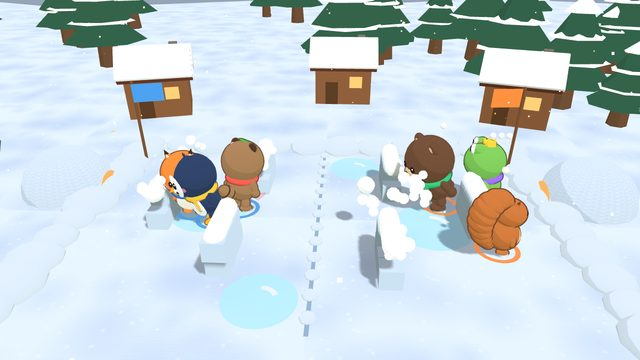
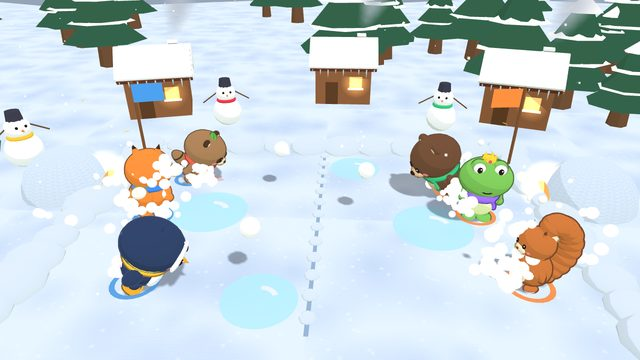
雪山の 雪合戦: 雪の かべを なくす
かくれる ところの ない まっこうしょうぶに。早く 決まりすぎないよう、体力 4・雪玉は 8回 れんだで 1こ・
はじめは 1こ・雪玉を 少し おそく(8m/秒)して 25 秒くらいに 合わせた。

Claude-Session: https://claude.ai/code/session_01Cisc6eBGskeR7WZHkdup4y

diff --git a/src/games/yuki/rules.js b/src/games/yuki/rules.js
@@ -1,12 +1,11 @@
 // 雪山の 雪合戦 のルール。THREE にも DOM にも触らない(あとでサーバーでも同じものを回す)。
 //
 // 雪山の ふもとの 村の 広場で、3人 対 3人の 雪合戦。まん中の 線から 先へは 行けない。
-// 雪玉を 3回 当てられた子は 雪だるまに なって 脱落。相手を みんな 雪だるまに したら 勝ち。
+// 雪玉を 4回 当てられた子は 雪だるまに なって 脱落。相手を みんな 雪だるまに したら 勝ち。
 // - チーム: くじで 左(L)・右(R)へ。3人に たりない チームには、森の なかま(すけっと)が入る(動きは このファイルの helperInput)。
 // - なげる: 向いている 向きへ まっすぐ。スティックを 少しだけ たおすと、その場で 向きだけ かえられる。
 // - 雪玉づくり: 雪玉は ammoMax こまで。「つくる」ボタンを makeTaps 回 れんだ すると 1こ できる(こおりの 上では できない)。
 //   れんだ している あいだは しゃがむので 動けない。
-// - 雪の かべ: かくれると 雪玉を ふせげる。wallHP 回 当たると くずれる。
 // - こおりの ゆか: つるつる すべる(止まりにくい・曲がりにくい)。こおりの 上では 雪玉を つくれない。
 // - 金の 雪玉: ときどき 落ちている。ひろうと つぎの 1こが 金(当たると 2つ ぶん)。
 // - timeLimit 秒で 決まらなければ、のこりの 体力の 合計が 多い チームの 勝ち(同じなら 当てた 数)。
@@ -33,32 +32,23 @@ export const RULES = {
   turnOnly: 0.35, // スティックが これより 小さいと 向きだけ かえる
   turnRate: 16,
   bodyR: 0.34,
-  hp: 3,
+  hp: 4,
   ammoMax: 3,
-  ammoStart: 2,
-  makeTaps: 6, // 雪玉 1こに いる れんだ の 回数
+  ammoStart: 1,
+  makeTaps: 8, // 雪玉 1こに いる れんだ の 回数
   makeHold: 0.28, // 1回 おすと この秒 しゃがむ(動けない)
-  throwCd: 0.5,
-  ballSpeed: 9,
+  throwCd: 0.6,
+  ballSpeed: 8,
   ballRange: 9,
   ballR: 0.16,
   stun: 0.6,
   knock: 3,
-  wallHP: 4,
-  wallW: 0.45, // かべの あつみ(x)
-  wallD: 1.3, // かべの はば(z)
   goldFirst: 8,
   goldEvery: [10, 15],
   goldLife: 9,
   pickR: 0.55,
 };
 
-// かべ(左右 おなじ 形): 左の チームの ぶん。右は x を うらがえす
-export const WALLS_L = [
-  { x: -1.5, z: -1.7 },
-  { x: -1.8, z: 1.5 },
-  { x: -3.5, z: 0 },
-];
 // こおりの ゆか(まるい)。左の チームの ぶん
 export const ICE_L = [
   { x: -2.6, z: -0.2, r: 0.9 },
@@ -81,7 +71,6 @@ export function createGame(players, seed) {
     teams: { L: [], R: [] }, // units の 番号
     units: [], // はじめの players.length こが プレイヤー(席の順)、のこりが すけっと
     balls: [], // { id, owner, x, z, dx, dz, left, gold }
-    walls: [], // { id, side, x, z, hp }
     ice: [],
     golds: [], // { id, x, z, until }
     nextGold: RULES.goldFirst,
@@ -117,7 +106,6 @@ export function createGame(players, seed) {
       u.goalX = u.x; u.goalZ = u.z;
     });
   }
-  for (const w of WALLS_L) for (const sx of [-1, 1]) s.walls.push({ id: s.nextId++, side: sx < 0 ? 'L' : 'R', x: sx < 0 ? w.x : -w.x, z: sx < 0 ? w.z : -w.z, hp: RULES.wallHP });
   for (const c of ICE_L) for (const sx of [-1, 1]) s.ice.push({ x: sx < 0 ? c.x : -c.x, z: sx < 0 ? c.z : -c.z, r: c.r });
   return s;
 }
@@ -128,16 +116,6 @@ export const onIce = (s, x, z) => s.ice.some((c) => Math.hypot(x - c.x, z - c.z)
 export const teamHp = (s, side) => s.teams[side].reduce((a, i) => a + Math.max(0, s.units[i].hp), 0);
 export const teamAlive = (s, side) => s.teams[side].filter((i) => s.units[i].alive);
 export const facingVec = (u) => ({ x: Math.sin(u.face), z: Math.cos(u.face) });
-const inWall = (w, x, z, pad) => Math.abs(x - w.x) < RULES.wallW / 2 + pad && Math.abs(z - w.z) < RULES.wallD / 2 + pad;
-// (x, z) から (x2, z2) へ まっすぐ 投げたら かべに 当たるか
-export function wallBetween(s, x, z, x2, z2) {
-  const n = Math.ceil(Math.hypot(x2 - x, z2 - z) / 0.2);
-  for (let k = 1; k < n; k++) {
-    const px = x + ((x2 - x) * k) / n, pz = z + ((z2 - z) * k) / n;
-    if (s.walls.some((w) => w.hp > 0 && inWall(w, px, pz, RULES.ballR))) return true;
-  }
-  return false;
-}
 // 陣地の 中に おさめる
 function clampSide(u) {
   const sx = u.side === 'L' ? -1 : 1;
@@ -171,7 +149,7 @@ function helperInput(s, i) {
     u.goalX = sx * randRange(s, 1.0, 4.4);
     u.goalZ = randRange(s, -3, 3);
   }
-  const want = Math.atan2(near.x - u.x, near.z - u.z) + randRange(s, -0.12, 0.12);
+  const want = Math.atan2(near.x - u.x, near.z - u.z) + randRange(s, -0.18, 0.18);
   // 雪玉が なければ しゃがんで れんだ で つくる(1秒に 6回くらい)
   if (u.ammo <= 0 && !onIce(s, u.x, u.z)) {
     let make = false;
@@ -181,7 +159,7 @@ function helperInput(s, i) {
   if (u.ammo <= 0) return { x: -sx, z: 0, throw: false };
   const dx = u.goalX - u.x, dz = u.goalZ - u.z, d = Math.hypot(dx, dz);
   // ねらう ときは その場で 向きを かえる
-  const aim = nd < 8 && u.cd <= 0 && !wallBetween(s, u.x, u.z, near.x, near.z);
+  const aim = nd < 8 && u.cd <= 0;
   if (aim) {
     const diff = Math.abs(((want - u.face + Math.PI * 3) % (Math.PI * 2)) - Math.PI);
     return { x: Math.sin(want) * 0.2, z: Math.cos(want) * 0.2, throw: diff < 0.12 && nextRandom(s) < 0.05 };
@@ -256,12 +234,6 @@ export function step(s, inputs) {
     u.x += u.vx * dt;
     u.z += u.vz * dt;
     clampSide(u);
-    // かべに めりこまない
-    for (const w of s.walls) {
-      if (w.hp <= 0 || !inWall(w, u.x, u.z, RULES.bodyR)) continue;
-      const ox = RULES.wallW / 2 + RULES.bodyR - Math.abs(u.x - w.x), oz = RULES.wallD / 2 + RULES.bodyR - Math.abs(u.z - w.z);
-      if (ox < oz) { u.x += Math.sign(u.x - w.x || 1) * ox; u.vx = 0; } else { u.z += Math.sign(u.z - w.z || 1) * oz; u.vz = 0; }
-    }
     // 雪玉づくり: 「つくる」を れんだ(雪の 上で)
     if (inp.make && !ice && u.ammo < RULES.ammoMax && u.stun <= 0) {
       u.makeT = RULES.makeHold;
@@ -305,14 +277,6 @@ export function step(s, inputs) {
       b.x += (b.dx * dt) / n;
       b.z += (b.dz * dt) / n;
       b.left -= (RULES.ballSpeed * dt) / n;
-      const w = s.walls.find((w) => w.hp > 0 && inWall(w, b.x, b.z, RULES.ballR));
-      if (w) {
-        w.hp--;
-        ev.push({ type: 'wallHit', id: w.id, ball: b.id, x: b.x, z: b.z, hp: w.hp });
-        if (w.hp <= 0) ev.push({ type: 'wallBreak', id: w.id });
-        gone = true;
-        break;
-      }
       const owner = s.units[b.owner];
       for (const i of alive) {
         const u = s.units[i];

diff --git a/src/games/yuki/game.js b/src/games/yuki/game.js
@@ -13,7 +13,7 @@ import { createModel, preload, toonMaterial } from '../../runtime/models.js';
 import { seedFrom } from '../../rng.js';
 import { RULES, STEP, createGame, onIce, ranking, step, timeLeft } from './rules.js';
 import { PERSONALITIES, cpuInput, createCpu } from './cpu.js';
-import { TEAM_COLORS, buildIce, buildStage, buildWall } from './stage.js';
+import { TEAM_COLORS, buildIce, buildStage } from './stage.js';
 import { createAtmosphere } from '../daruma/atmosphere.js';
 
 const $ = (id) => document.getElementById(id);
@@ -78,8 +78,6 @@ export async function createYuki({ renderer, settings, getAudio, onExit }) {
   const sfx = {
     throw() { noise({ len: 0.18, gain: 0.08, freq: [2200, 700], q: 1.5 }); },
     hit() { noise({ len: 0.22, gain: 0.2, freq: [1600, 300], type: 'lowpass', attack: 0.003 }); voice({ pts: [[0, 660], [0.12, 330]], len: 0.14, gain: 0.05 }); },
-    wall() { noise({ len: 0.15, gain: 0.12, freq: [1000, 300], type: 'lowpass', attack: 0.003 }); },
-    crumble() { noise({ len: 0.5, gain: 0.2, freq: [800, 120], type: 'lowpass' }); },
     scoop() { noise({ len: 0.08, gain: 0.06, freq: [1800, 600], q: 1.2 }); },
     make() { voice({ type: 'triangle', pts: [[0, 520], [0.06, 700]], len: 0.08, gain: 0.04 }); },
     gold() { [0, 0.07, 0.14].forEach((at, i) => voice({ pts: [[0, 988 + i * 260]], len: 0.1, gain: 0.05, at })); },
@@ -93,10 +91,9 @@ export async function createYuki({ renderer, settings, getAudio, onExit }) {
 
   await preload([...CHARACTERS.map((c) => c.key), 'risu', 'harinezumi', 'komadori']);
 
-  // ── 雪の かべ・こおり(state から 作る) ───────────────────
+  // ── こおり(state から 作る) ───────────────────
   const fieldGroup = new THREE.Group();
   scene.add(fieldGroup);
-  let walls = new Map();
 
   // ── 雪玉・金の 雪玉 ──────────────────────────────────
   const ballGeo = new THREE.SphereGeometry(RULES.ballR * 1.2, 10, 8);
@@ -242,7 +239,7 @@ export async function createYuki({ renderer, settings, getAudio, onExit }) {
     pos.needsUpdate = true;
   }
 
-  // 雪だるま(雪玉を 3回 当てられた子)。首に チームの 色の マフラー
+  // 雪だるま(雪玉を 4回 当てられた子)。首に チームの 色の マフラー
   function snowman(color) {
     const g = new THREE.Group();
     const white = toonMaterial(0xffffff);
@@ -288,11 +285,6 @@ export async function createYuki({ renderer, settings, getAudio, onExit }) {
     golds.clear();
     const state = createGame(players, seed);
     fieldGroup.clear();
-    walls = new Map(state.walls.map((w) => {
-      const v = buildWall(w);
-      fieldGroup.add(v.group);
-      return [w.id, { ...v, w, fall: 0 }];
-    }));
     for (const c of state.ice) fieldGroup.add(buildIce(c));
     const units = await Promise.all(state.units.map(async (su) => {
       const helper = su.slot < 0;
@@ -584,32 +576,6 @@ export async function createYuki({ renderer, settings, getAudio, onExit }) {
           }
           break;
         }
-        case 'wallHit': {
-          burst(e.x, BALL_Y, e.z, 5);
-          sfx.wall();
-          const v = walls.get(e.id);
-          if (v) v.shake = 0.25;
-          // ブロックを ひとつずつ へらす
-          if (v && e.hp > 0) { const b = v.blocks.filter((x) => x.visible).pop(); if (b) { b.visible = false; burst(v.w.x + b.position.x, b.position.y, v.w.z + b.position.z, 6); } }
-          break;
-        }
-        case 'wallBreak': {
-          const v = walls.get(e.id);
-          if (v) {
-            v.fall = 0.001;
-            burst(v.w.x, 0.5, v.w.z, 18, 0xffffff, 3);
-            // 雪けむり
-            for (let k = 0; k < 6; k++) {
-              const m = new THREE.Sprite(new THREE.SpriteMaterial({ map: smokeTex, color: 0xffffff, transparent: true, opacity: 0, depthWrite: false }));
-              m.position.set(v.w.x + (Math.random() - 0.5) * 0.6, 0.3, v.w.z + (Math.random() - 0.5) * 1.2);
-              m.scale.setScalar(0.4);
-              scene.add(m);
-              fx.push({ obj: m, t: 0, life: 1.2, vel: new THREE.Vector3((Math.random() - 0.5) * 1.2, 0.8, (Math.random() - 0.5) * 1.2), kind: 'smoke' });
-            }
-          }
-          sfx.crumble();
-          break;
-        }
         case 'miss':
           burst(e.x, 0.1, e.z, 4);
           break;
@@ -742,16 +708,6 @@ export async function createYuki({ renderer, settings, getAudio, onExit }) {
         u.pips.position.y = 1.75 * u.size;
       }
       if (u.arrow) u.arrow.material.opacity = su.ammo > 0 ? 0.9 : 0.3;
-    }
-    // かべ: ゆれる・くずれる
-    for (const v of walls.values()) {
-      if (v.shake > 0) { v.shake -= dt; v.group.position.x = v.w.x + Math.sin(time * 60) * 0.04; } else v.group.position.x = v.w.x;
-      if (v.fall > 0) {
-        v.fall += dt;
-        const k = Math.min(1, v.fall / 0.6);
-        v.group.scale.set(1 + k * 0.4, Math.max(0.01, 1 - k), 1 + k * 0.4);
-        if (k >= 1) v.group.visible = false;
-      }
     }
     syncBalls(s);
     syncGolds(s);

diff --git a/src/games/yuki/cpu.js b/src/games/yuki/cpu.js
@@ -4,18 +4,17 @@
 // ねらうときは スティックを 少しだけ たおして その場で 向きを かえてから なげる。
 // - ねらい: いちばん 近い(体力の 少ない)相手。動きを 少し 先読み(lead)。ずれ(aimErr)は 性格しだい。
 // - よける: 自分へ 来る 雪玉に 気づいたら(dodge)、横へ にげる。
-// - かべ: ときどき 相手との あいだに かべが 来る ところへ 行って かくれる(cover)。
 // - 雪玉が なくなったら、こおりで ない ところで「つくる」を れんだ(tap 回/秒)。金の 雪玉は ひろいに いく(greed)。
 //
 // 乱数は CPU ごとに持つ(シードはゲームのシードと席から作る)。
 
 import { nextRandom, seedFrom } from '../../rng.js';
-import { RULES, onIce, teamAlive, wallBetween } from './rules.js';
+import { RULES, onIce, teamAlive } from './rules.js';
 
 export const PERSONALITIES = {
-  cautious: { label: 'しんちょう', aimErr: 0.15, aimTol: 0.1, lead: 0.6, dodge: 0.7, cover: 0.6, greed: 0.3, think: 0.24, range: 7, tap: 6.5 },
-  normal: { label: 'ふつう', aimErr: 0.16, aimTol: 0.12, lead: 0.5, dodge: 0.62, cover: 0.4, greed: 0.5, think: 0.22, range: 7.5, tap: 6.8 },
-  bold: { label: 'つよき', aimErr: 0.18, aimTol: 0.15, lead: 0.4, dodge: 0.52, cover: 0.2, greed: 0.75, think: 0.2, range: 8.5, tap: 7 },
+  cautious: { label: 'しんちょう', aimErr: 0.17, aimTol: 0.1, lead: 0.6, dodge: 0.82, greed: 0.3, think: 0.24, range: 7.4, tap: 6.5 },
+  normal: { label: 'ふつう', aimErr: 0.18, aimTol: 0.12, lead: 0.5, dodge: 0.76, greed: 0.5, think: 0.22, range: 7.5, tap: 6.8 },
+  bold: { label: 'つよき', aimErr: 0.2, aimTol: 0.15, lead: 0.4, dodge: 0.68, greed: 0.75, think: 0.2, range: 7.6, tap: 7 },
 };
 
 export function createCpu(personality, seed, slot) {
@@ -62,16 +61,7 @@ export function cpuInput(cpu, s, slot) {
     cpu.err = (nextRandom(cpu) * 2 - 1) * p.aimErr;
     const gold = s.golds.find((g) => Math.sign(g.x) === sx);
     if (gold && nextRandom(cpu) < p.greed) { cpu.gx = gold.x; cpu.gz = gold.z; }
-    else if (nextRandom(cpu) < p.cover) {
-      // 相手との あいだに かべが 来る ところ
-      const mine = s.walls.filter((w) => w.side === me.side && w.hp > 0);
-      const w = mine[Math.floor(nextRandom(cpu) * mine.length)];
-      if (w) {
-        const d = Math.hypot(target.x - w.x, target.z - w.z) || 1;
-        cpu.gx = w.x - ((target.x - w.x) / d) * 0.75;
-        cpu.gz = w.z - ((target.z - w.z) / d) * 0.75;
-      }
-    } else {
+    else {
       cpu.gx = sx * (1.2 + nextRandom(cpu) * 3.0);
       cpu.gz = (nextRandom(cpu) * 2 - 1) * 3;
     }
@@ -88,8 +78,7 @@ export function cpuInput(cpu, s, slot) {
     cpu.gx = me.x + sx * 0.8; // こおりから 出る
   }
   // ── ねらって なげる ──
-  const open = !wallBetween(s, me.x, me.z, target.x, target.z);
-  if (me.cd <= 0 && dist < p.range && open) {
+  if (me.cd <= 0 && dist < p.range) {
     return { ...turn, throw: Math.abs(angDiff(want, me.face)) < p.aimTol };
   }
   const dx = cpu.gx - me.x, dz = cpu.gz - me.z, d = Math.hypot(dx, dz);

diff --git a/src/games/yuki/stage.js b/src/games/yuki/stage.js
@@ -2,7 +2,7 @@
 //
 // 雪に おおわれた 村の 広場。まん中に 線(小さな 雪の 山と 旗の ひも)。左右の 陣地の おくに、チームの 旗と かまくら。
 // まわりには 雪を かぶった 小屋と もみの木、うしろに 大きな 雪山。雪が ちらちら ふる(画面がわ)。
-// 雪の かべ・こおりの ゆかは state から 作って、画面がわで くずす。
+// こおりの ゆかは state から 作る。
 //
 // 座標: 広場の まん中が 原点。左の チームが -x、右が +x。カメラは +z(手前)の 上から。
 
@@ -246,28 +246,6 @@ export function buildStage(scene) {
     glows.push(sp);
   }
   return { group: g, flags, chimneys, glows };
-}
-
-// 雪の かべ(state.walls から)。かたまりを 積んだ 形
-export function buildWall(w) {
-  const grp = new THREE.Group();
-  const blocks = [];
-  const mat = toonMaterial(0xc4d6ea);
-  const nz = 3, ny = 2;
-  for (let iy = 0; iy < ny; iy++) {
-    for (let iz = 0; iz < nz; iz++) {
-      const b = new THREE.Mesh(new THREE.BoxGeometry(RULES.wallW, 0.42, RULES.wallD / nz - 0.03), mat);
-      b.position.set(0, 0.21 + iy * 0.42, (iz - (nz - 1) / 2) * (RULES.wallD / nz) + (iy % 2 ? 0.1 : 0));
-      b.castShadow = b.receiveShadow = true;
-      grp.add(b);
-      blocks.push(b);
-    }
-  }
-  const top = new THREE.Mesh(new THREE.CapsuleGeometry(RULES.wallW * 0.45, RULES.wallD * 0.8, 4, 8).rotateX(Math.PI / 2), toonMaterial(0xffffff));
-  top.position.y = 0.86;
-  grp.add(top);
-  grp.position.set(w.x, 0, w.z);
-  return { group: grp, blocks, top };
 }
 
 // こおりの ゆか

diff --git a/src/title/title.js b/src/title/title.js
@@ -487,8 +487,8 @@ const GAMES = {
     rules: [
       '<b>3人 対 3人</b>の 雪合戦。人が たりない チームには <b>森の なかま</b>が すけっとに入る。',
       'どこでも <b>指を おいて ずらす</b>と 走る。<b>すこしだけ</b> ずらすと その場で 向きだけ かわる。<b>「なげる」</b>で 向いている ほうへ!',
-      '雪玉は 3こまで。<b>「つくる」を れんだ</b>すると できる。<b>雪の かべ</b>に かくれよう。<b>こおり</b>の 上は つるつる、雪玉も つくれない。',
-      '<b>金の 雪玉</b>は 当たると 2つ ぶん。3回 当てられると <b>雪だるま</b>! 相手を みんな 雪だるまに したら 勝ち。',
+      '雪玉は 3こまで。<b>「つくる」を れんだ</b>すると できる。<b>こおり</b>の 上は つるつる、雪玉も つくれない。',
+      '<b>金の 雪玉</b>は 当たると 2つ ぶん。4回 当てられると <b>雪だるま</b>! 相手を みんな 雪だるまに したら 勝ち。',
     ],
     load: () => import('../games/yuki/game.js').then((m) => m.createYuki),
   },

diff --git a/sw.js b/sw.js
@@ -10,7 +10,7 @@
 // 版はファイルの中身から作るので、1つでも変われば sw.js が変わり、ブラウザが入れなおす。
 
 // <precache>
-const VERSION = 'db21a9c45858';
+const VERSION = '7bb13d73a5ad';
 const PRECACHE = [
   "./",
   "./assets/thumbs/catch.jpg",

diff --git a/docs/minigames/yuki.md b/docs/minigames/yuki.md
@@ -1,17 +1,17 @@
 # 雪山の 雪合戦
 
 雪山の ふもとの 村の 広場で、3人 対 3人の 雪合戦。5人を くじで 左右に 分け、たりない チームには 森の なかま(すけっと)が入る。
-雪玉を 3回 当てられた子は 雪だるまに なって 脱落。相手を みんな 雪だるまに したら 勝ち(20〜60 秒)。
+雪玉を 4回 当てられた子は 雪だるまに なって 脱落。相手を みんな 雪だるまに したら 勝ち(20〜60 秒)。
 
 ## ルール(`src/games/yuki/rules.js`)
 
+- かくれる ところは ない(まっこうしょうぶ)。
 - 広場: はば 10m・おくゆき 7m。まん中の 線から 0.45m より 先へは 行けない(自分の 陣地だけ)。
 - 動く: スティックで 走る(3.1m/秒)。スティックを 少しだけ(0.35 より 小さく)たおすと、その場で 向きだけ かわる。
-- なげる: 向いている 向きへ まっすぐ(9m/秒・9m まで)。なげたら 0.5 秒 なげられない。当たると 0.6 秒 よろけて 少し 押される。
-- 体力 3。0 に なったら 雪だるま(脱落)。
-- 雪玉づくり: 雪玉は 3こまで(はじめは 2こ)。「つくる」ボタンを 6回 れんだ すると 1こ できる(こおりの 上では できない)。
+- なげる: 向いている 向きへ まっすぐ(8m/秒・9m まで)。なげたら 0.6 秒 なげられない。当たると 0.6 秒 よろけて 少し 押される。
+- 体力 4。0 に なったら 雪だるま(脱落)。
+- 雪玉づくり: 雪玉は 3こまで(はじめは 1こ)。「つくる」ボタンを 8回 れんだ すると 1こ できる(こおりの 上では できない)。
   おすたびに 0.28 秒 しゃがむので、れんだ している あいだは 動けない。
-- 雪の かべ: 左右に 3つずつ(点対称)。雪玉を ふせぐ。4回 当たると くずれる。子は かべを ぬけられない。
 - こおりの ゆか: 左右に 2つずつ。つるつる すべって(止まりにくい・曲がりにくい)、雪玉も つくれない。
 - 金の 雪玉: 8 秒目から 10〜15 秒ごとに、左右に 1こずつ(点対称の 場所)。ひろうと つぎの 1こが 金(当たると 2つ ぶん)。9 秒で 消える。
 - 60 秒で 時間ぎれ: のこりの 体力の 合計が 多い チーム(同じなら 当てた 数)の 勝ち。
@@ -23,9 +23,9 @@
 - ねらい: 近くて 体力の 少ない 相手。動きを 少し 先読み(lead)。ずれ(aimErr)は 性格しだい。
   スティックを 少しだけ たおして その場で 向きを かえ、向きが あったら なげる(人と 同じ やりかた)。
 - よける: 自分へ 来る 雪玉に 気づいたら(dodge)、0.3 秒 横へ にげる。
-- かべ: ときどき 相手との あいだに 自分の かべが 来る ところへ 行く(cover)。金の 雪玉に ひかれる(greed)。
+- 金の 雪玉に ひかれる(greed)。
 - 雪玉が なくなったら、こおりで ない ところで「つくる」を れんだ(1秒に 6.5〜7回)。
-- 性格: しんちょう(よく よける・かべを つかう)/ ふつう / つよき(とおくから なげる・金が すき・あまり よけない)。
+- 性格: しんちょう(よく よける)/ ふつう / つよき(とおくから なげる・金が すき・あまり よけない)。
 
 ## 画面(`src/games/yuki/game.js`, `stage.js`)
 
@@ -33,10 +33,10 @@
   まわりに 雪を かぶった 小屋(まどの あかりが ゆらゆら・のきの つらら・えんとつから けむり)と もみの木、かざりの 雪だるま、
   うしろに 大きな 雪山。かまくらの 中に ろうそくの あかり。雪が ちらちら ふる。夕方は 空が 赤く そまる。
 - 子の 足もとに チームの 色の わ、頭の上に もっている 雪玉の 数。自分には 向きの 矢じるし。
-- 雪玉は 少し 山なりに とぶ。当たると こなゆきが はじけて「ぺしゃ!」(金は「ドカッ!」)。かべは 当たるたびに ブロックが へる。
+- 雪玉は 少し 山なりに とぶ。当たると こなゆきが はじけて「ぺしゃ!」(金は「ドカッ!」)。
 - 動き: なげる ときは 腕を うしろから 前へ ふりぬく。雪玉を つくる(れんだ する)ときは しゃがんで 手もとで 雪が まるくなり、おすたびに 雪が はねる。
   こおりの 上では 両手を ひろげて ゆらゆら すべる。当たると 体に 雪が べちゃっと つく。
-- かべが くずれると 雪けむり。金の 雪玉は 金の わが くるくる 回って きらきら。
+- 金の 雪玉は 金の わが くるくる 回って きらきら。
 - 雪だるまに なると、その場に チームの 色の マフラーを まいた 雪だるま。
 - 盛り上げ: 体力 1 の 子は 札の 点が どきどき、自分なら 画面の ふちが 赤く 光って「あと 1回で 雪だるま!」。
   おたがい のこり 1人で「いっきうち!」、カメラが 2人へ 寄る。決着で 負けた チームは みんな 雪だるまに、
